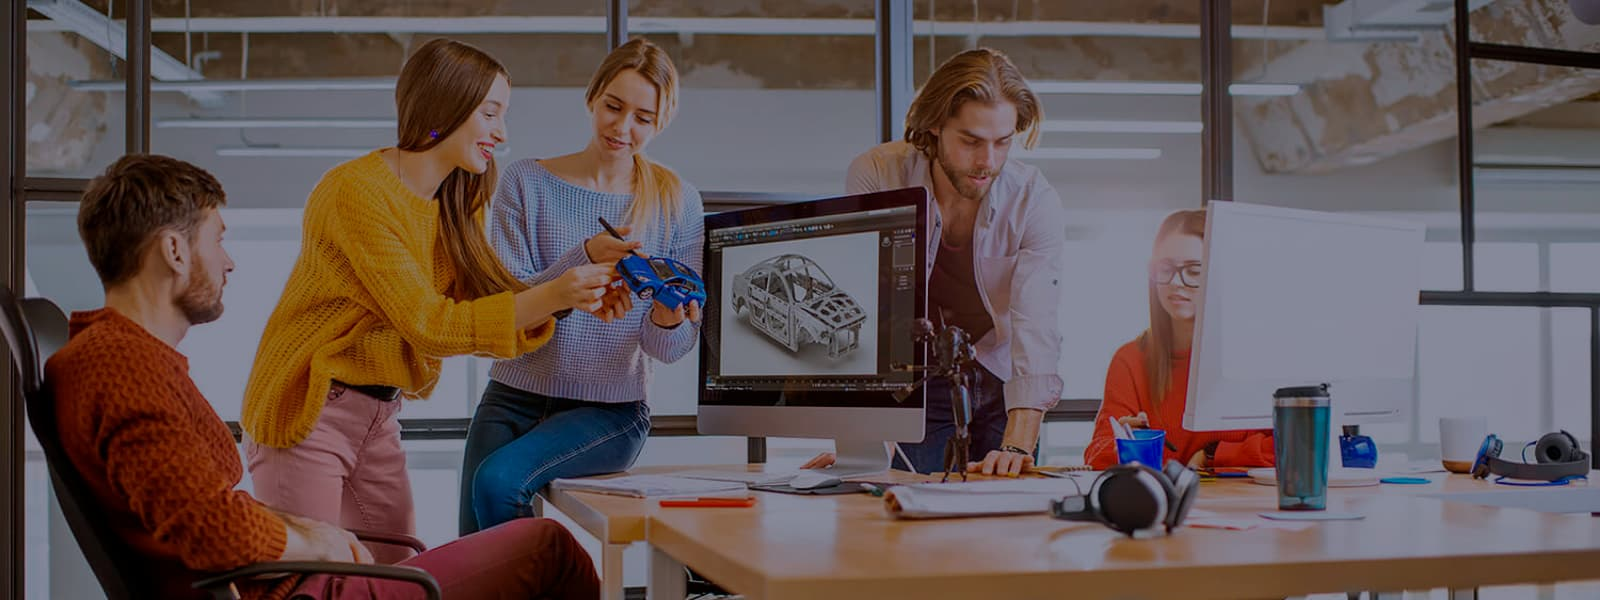
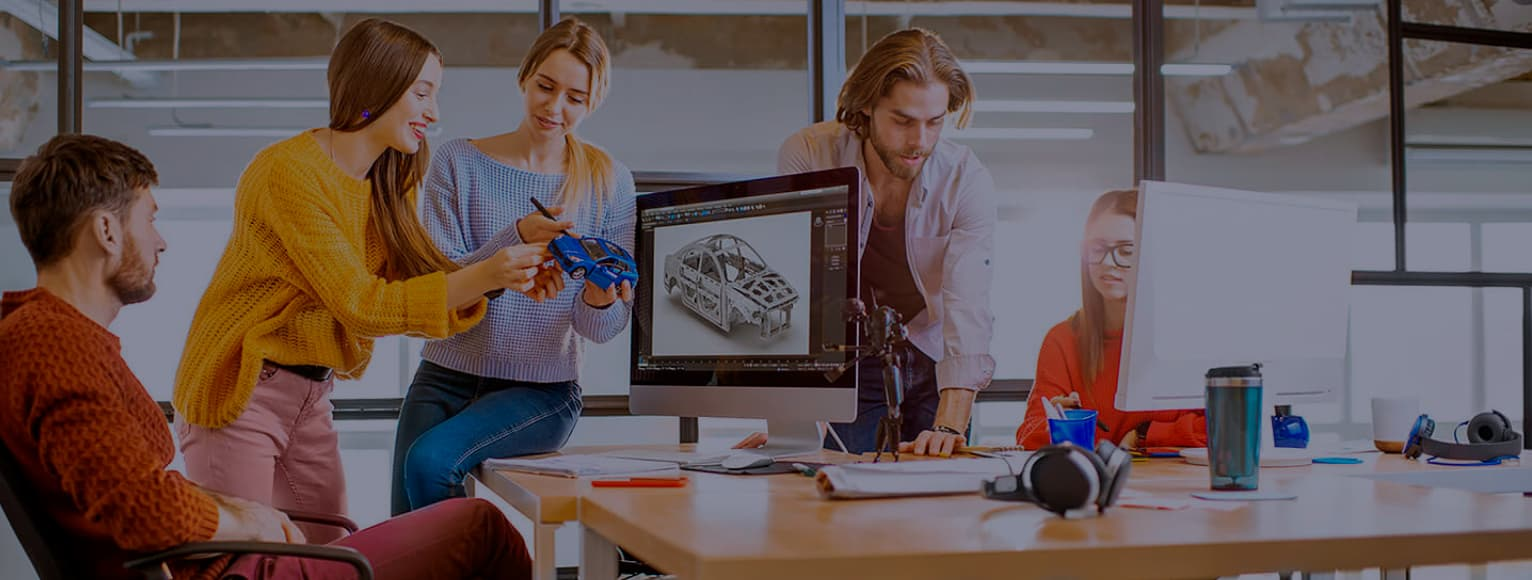
hw4 1

diff --git a/css/styles.css b/css/styles.css
@@ -128,7 +128,7 @@ img {
   margin-left: auto;
 }
 .contacts-list {
-  display: block;
+  /*display: block;*/
   margin-right: 50px;
   padding-top: 32px;
   padding-bottom: 32px;
@@ -136,6 +136,23 @@ img {
 
 .contacts-list:last-child {
   margin-right: 0px;
+}
+.contacts {
+  display: flex;
+  align-items: center;
+  justify-content: center;
+}
+.icon-contacts-mail {
+  width: 16px;
+  height: 12px;
+  margin-right: 10px;
+  text-align: center;
+}
+.icon-contacts-smartphone {
+  width: 10px;
+  height: 16px;
+  margin-right: 10px;
+  text-align: center;
 }
 
 /*---Hero---*/
@@ -146,9 +163,11 @@ img {
 .hero {
   padding-top: 200px;
   padding-bottom: 200px;
-  background-image: url('../images/hero.jpg');
+  background-image: linear-gradient(rgba(47, 48, 58, 0.4), rgba(47, 48, 58, 0.4)),
+    url('../images/hero.jpg');
   background-position: center;
   background-size: cover;
+  width: 1600px;
 }
 .main-title {
   margin-bottom: 30px;
@@ -336,6 +355,8 @@ img {
   background-color: var(--accent-color);
   color: #ffffff;
   cursor: pointer;
+  box-shadow: 0px 3px 1px rgba(0, 0, 0, 0.1), 0px 1px 2px rgba(0, 0, 0, 0.08),
+    0px 2px 2px rgba(0, 0, 0, 0.12);
 }
 .galery-list-button {
   min-width: 73px;
@@ -359,7 +380,11 @@ img {
 .galery-item {
   flex-basis: calc((100% - 60px) / 3);
 }
-
+.galery-item:hover,
+.galery-item:focus {
+  box-shadow: 0px 1px 1px rgba(0, 0, 0, 0.12), 0px 4px 4px rgba(0, 0, 0, 0.06),
+    1px 4px 6px rgba(0, 0, 0, 0.16);
+}
 .galery-item:not(:nth-child(3n)) {
   margin-right: 30px;
 }

diff --git a/index.html b/index.html
@@ -36,10 +36,21 @@
                 </ul>
             </nav>
             <ul class=" contacts-header list">
-                <Li class="contacts-list"><a href="mailto:info@devstudio.com"
-                        class="contacts link">info@devstudio.com</a>
+                <Li class="contacts-list">
+                    <a href="mailto:info@devstudio.com" class="contacts link">
+                        <svg class="icon-contacts-smartphone">
+                            <use class="mail" href="./images/icons.svg#icon-mail" width="16px" height="12"></use>
+                        </svg>info@devstudio.com
+
+                    </a>
                 </Li>
-                <li class="contacts-list"><a href="tel:+380961111111" class="contacts link">+38 096 111 11 11</a></li>
+                <li class="contacts-list">
+                    <a href="tel:+380961111111" class="contacts link">
+                        <svg class="icon-contacts-mail">
+                            <use class="smartphone" href="./images/icons.svg#icon-smartphone" width="10px" height="16">
+                            </use>
+                        </svg>+38 096 111 11 11</a>
+                </li>
             </ul>
         </div>
     </header>
